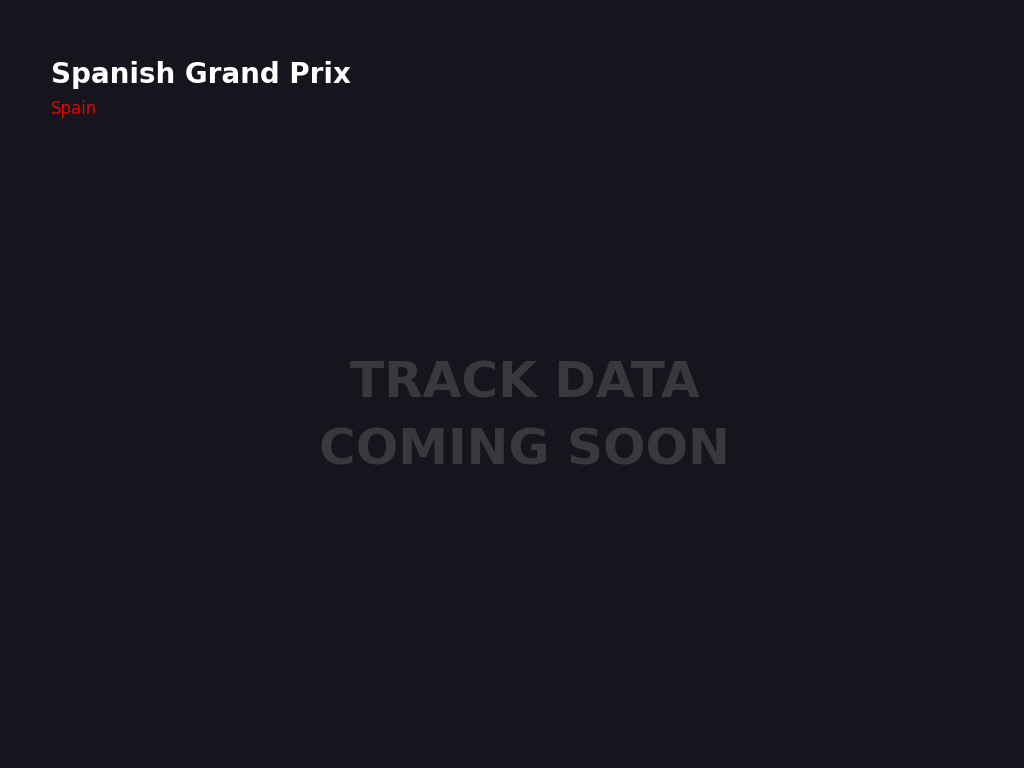
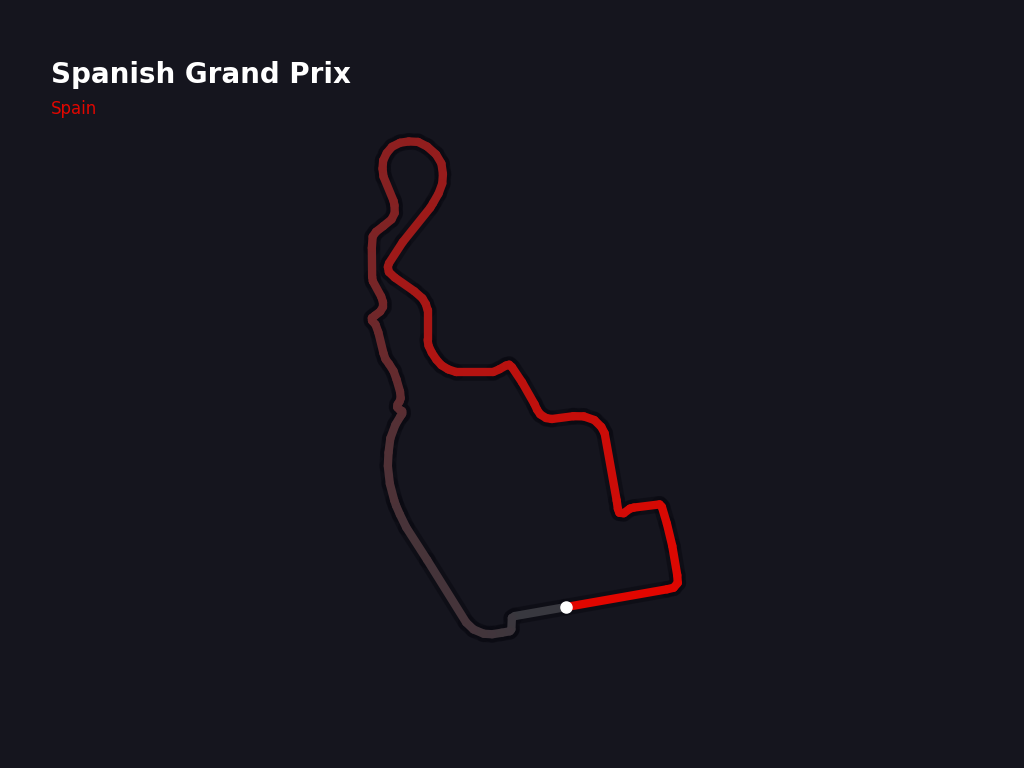
Add Madring track map for round 16 from GPS trace

Changed region(s): [[0.3125, 0.1562, 0.7188, 0.7812], [0.5, 0.7812, 0.5938, 0.8125], [0.4375, 0.7812, 0.5, 0.8438]]

diff --git a/generate_tracks.py b/generate_tracks.py
@@ -8,6 +8,7 @@ import sys
 import fastf1
 import matplotlib.pyplot as plt
 import numpy as np
+import pandas as pd
 from matplotlib.collections import LineCollection
 
 # FastF1 cache directory
@@ -18,7 +19,8 @@ MEDIUM_OUTPUT_DIR = os.path.join(os.path.dirname(__file__), "static", "medium_tr
 RACES_FILE = os.path.join(os.path.dirname(__file__), "2026_f1_races.json")
 
 # Map circuit names from 2026_f1_races.json to (year, FastF1 GP name) tuples.
-# Madrid is new for 2026 with no historical data — maps to None.
+# Madrid is new for 2026 with no FastF1 data yet — uses a hand-traced
+# GeoJSON loop (bacinger/f1-circuits) instead of FastF1.
 CIRCUIT_LOOKUP = {
     "Albert Park Circuit": (2024, "Australian Grand Prix"),
     "Shanghai International Circuit": (2024, "Chinese Grand Prix"),
@@ -35,7 +37,8 @@ CIRCUIT_LOOKUP = {
     "Hungaroring": (2024, "Hungarian Grand Prix"),
     "Circuit Zandvoort": (2024, "Dutch Grand Prix"),
     "Autodromo Nazionale Monza": (2024, "Italian Grand Prix"),
-    "Circuito IFEMA Madrid": None,
+    "Circuito IFEMA Madrid": os.path.join(
+        os.path.dirname(__file__), "2026_madring_track.geojson"),
     "Baku City Circuit": (2024, "Azerbaijan Grand Prix"),
     "Marina Bay Street Circuit": (2024, "Singapore Grand Prix"),
     "Circuit of the Americas": (2024, "United States Grand Prix"),
@@ -68,6 +71,27 @@ def get_track_data(year, gp_name):
     circuit_info = session.get_circuit_info()
 
     return pos_data[["X", "Y"]], circuit_info
+
+
+def get_geojson_track_data(path):
+    """Load a hand-traced circuit loop from GeoJSON, projected to metres."""
+    with open(path) as f:
+        data = json.load(f)
+    coords = data["features"][0]["geometry"]["coordinates"]
+    lon0, lat0 = coords[0]
+    lat0_rad = np.radians(lat0)
+    x = np.array([np.radians(lon - lon0) * np.cos(lat0_rad) * 6371000
+                  for lon, _ in coords])
+    y = np.array([np.radians(lat - lat0) * 6371000 for _, lat in coords])
+    return x, y
+
+
+class GeoJSONCircuitInfo:
+    """Minimal stand-in for FastF1's CircuitInfo (no corner metadata)."""
+
+    def __init__(self):
+        self.rotation = 0
+        self.corners = pd.DataFrame()
 
 
 def process_track_coordinates(pos_data, circuit_info):
@@ -371,10 +395,14 @@ def main():
             render_placeholder_medium(medium_output_path)
             continue
 
-        year, gp_name = lookup
+        year, gp_name = lookup if isinstance(lookup, tuple) else (None, None)
         try:
-            pos_data, circuit_info = get_track_data(year, gp_name)
-            x, y = process_track_coordinates(pos_data, circuit_info)
+            if isinstance(lookup, str):
+                x, y = get_geojson_track_data(lookup)
+                circuit_info = GeoJSONCircuitInfo()
+            else:
+                pos_data, circuit_info = get_track_data(year, gp_name)
+                x, y = process_track_coordinates(pos_data, circuit_info)
             render_track(x, y, circuit_info, race_name, country, output_path)
             render_track_small(x, y, small_output_path)
             render_track_medium(x, y, medium_output_path)
